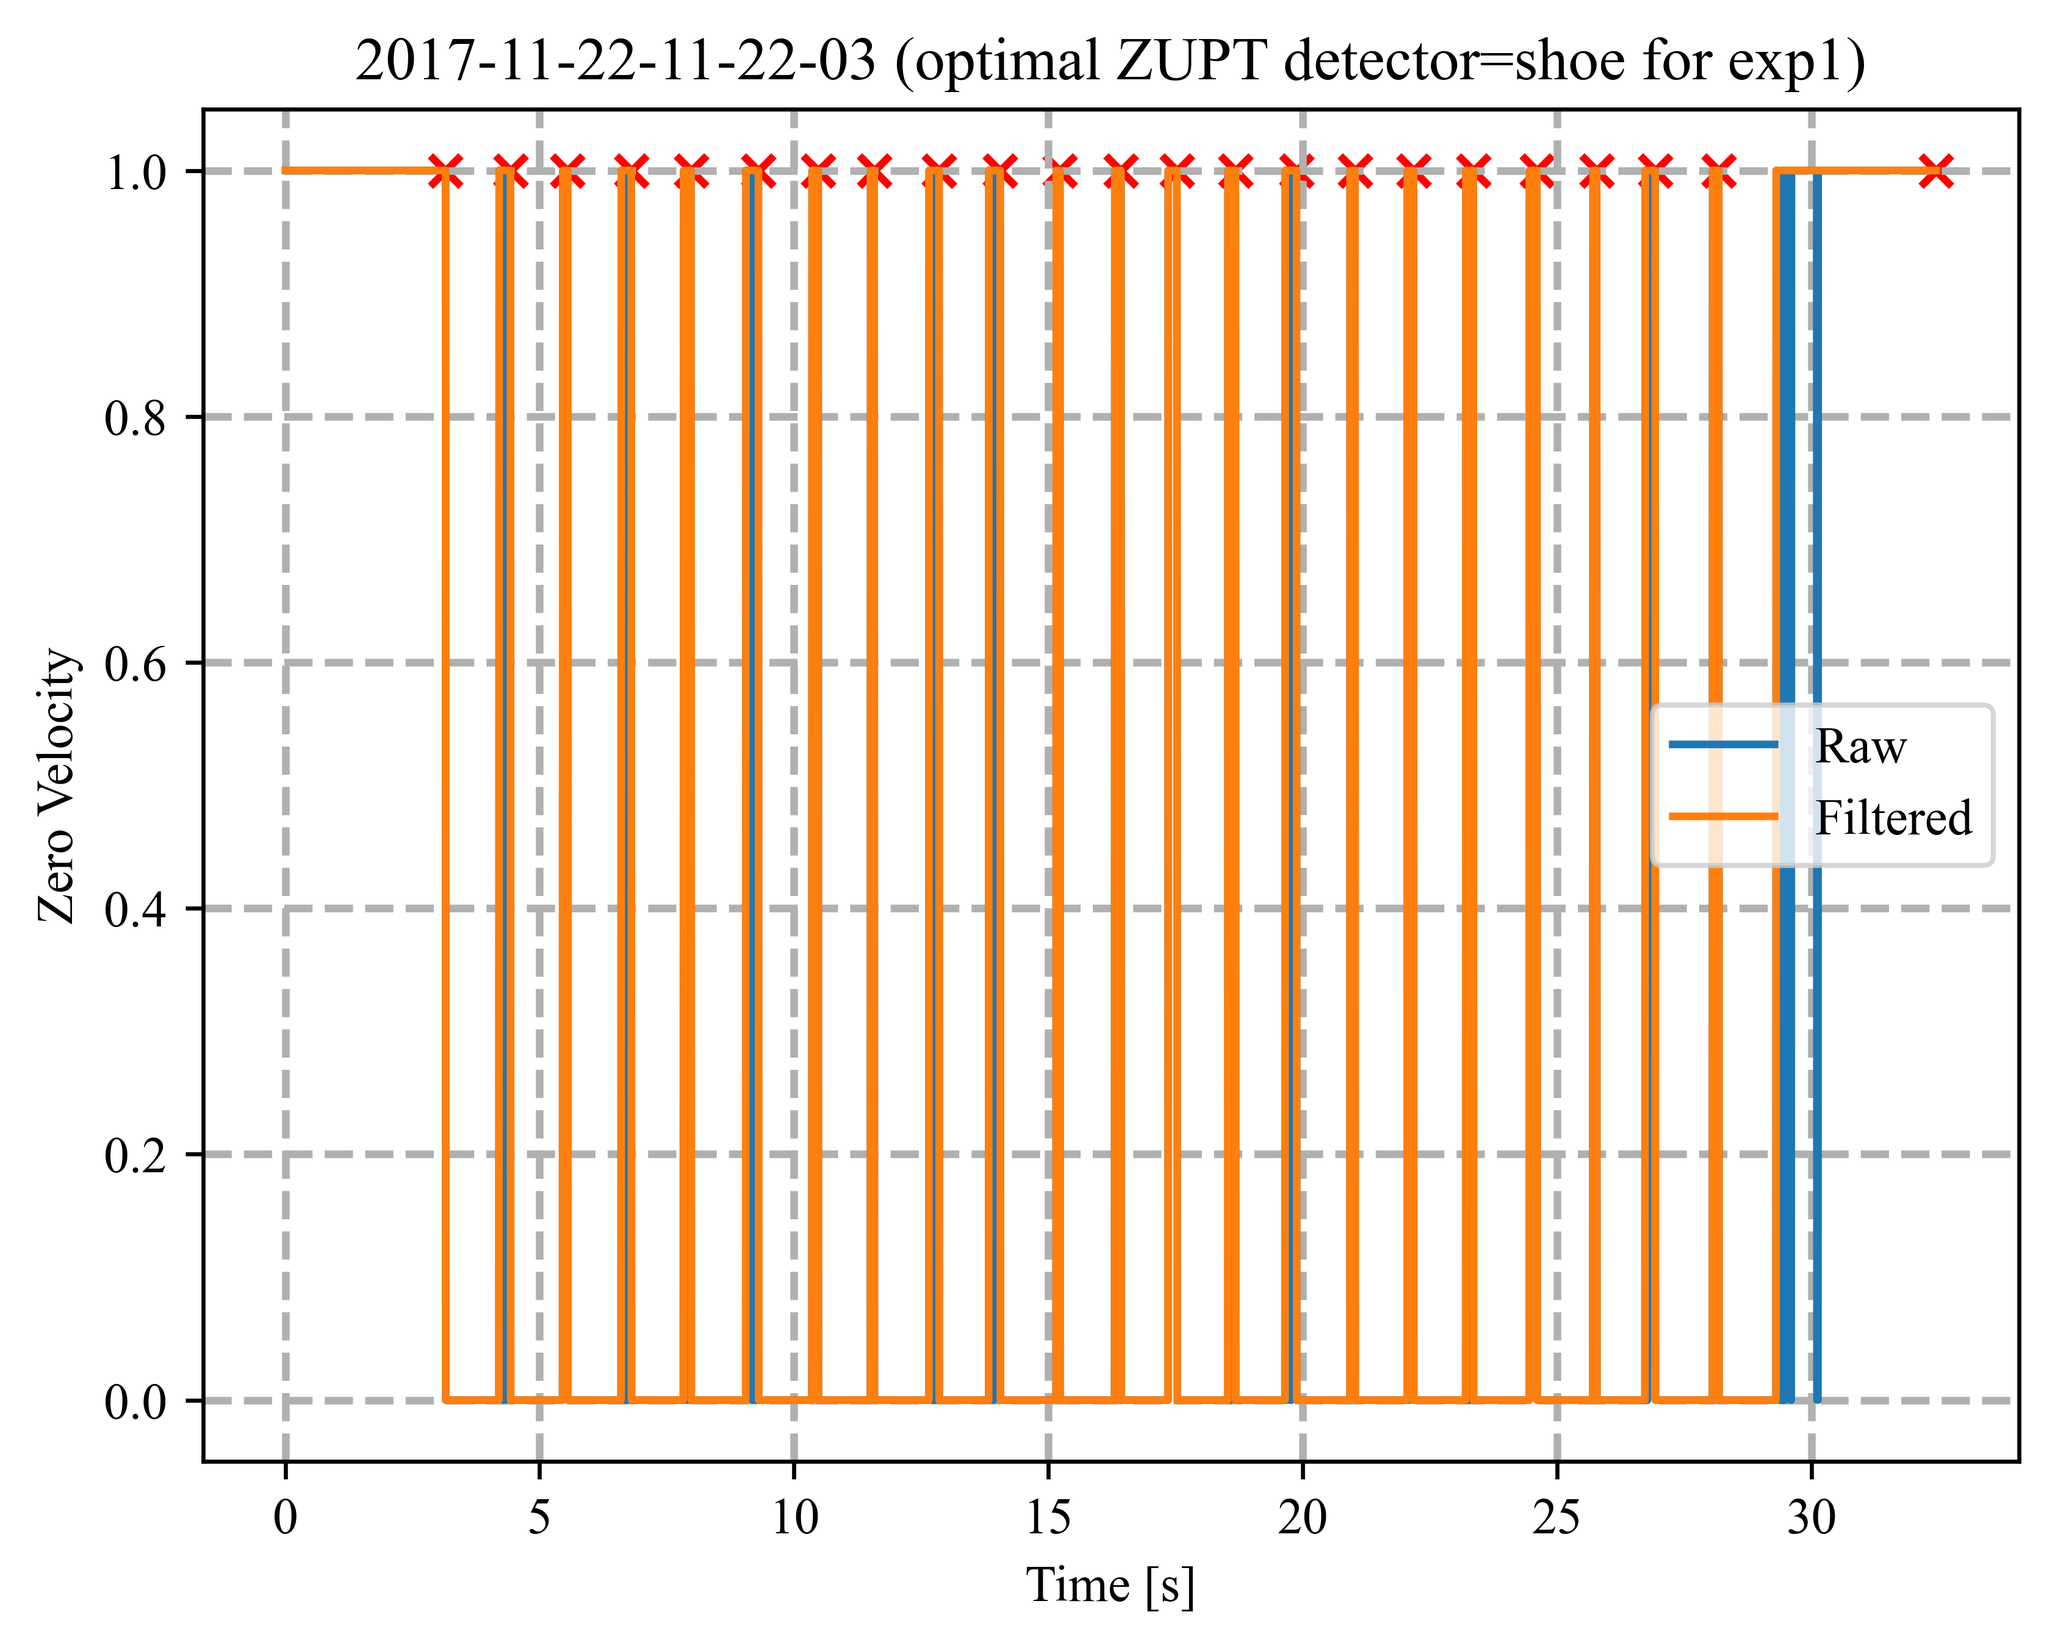
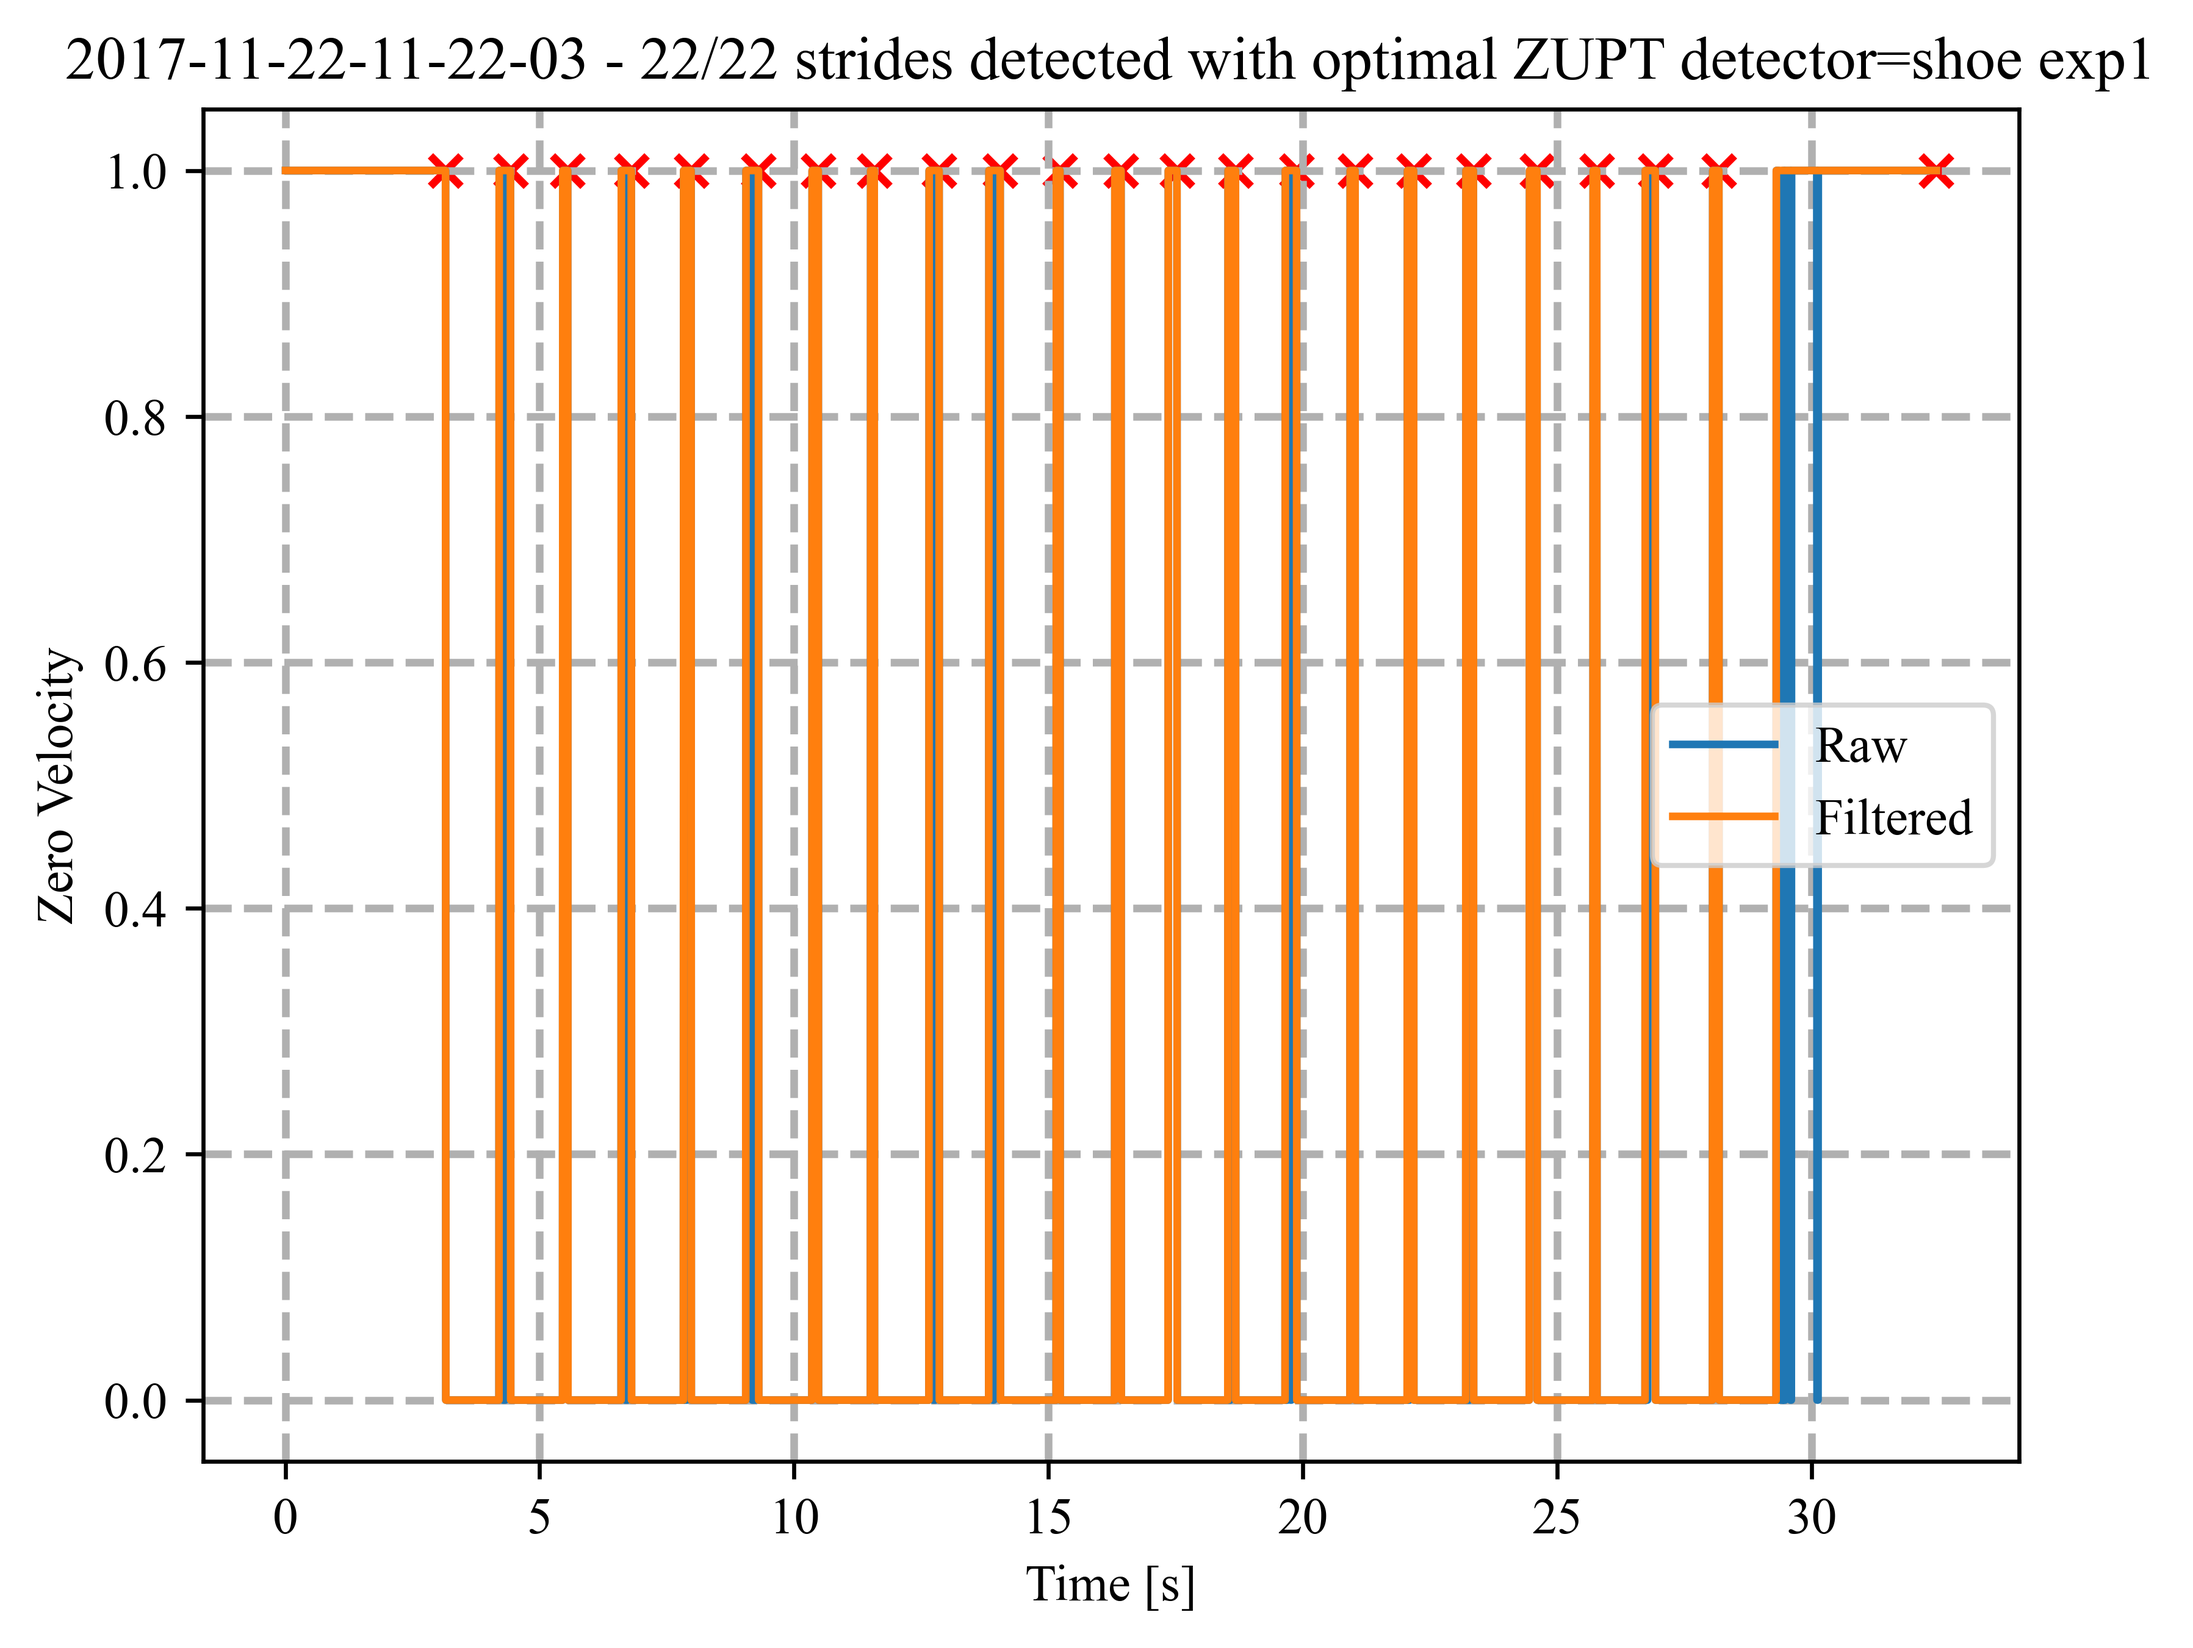
gif files added for visualization of corrections of stride detections in troublesome experiments

diff --git a/plot_vicon_bipedal_locomotion_data.py b/plot_vicon_bipedal_locomotion_data.py
@@ -68,6 +68,7 @@ def reconstruct_trajectory(displacements, heading_changes, initial_position):
 i = 0  # experiment index
 training_data_index = [1]*6
 corrected_data_index = [4, 6]
+nGT = [22, 21, 21, 18, 26, 24] # number of actual strides
 stride_experiment = [1]*5
 stride_experiment.append(1)
 stride_experiment = [abs(x) for x in stride_experiment]
@@ -91,32 +92,28 @@ for file in vicon_data_files:
         zv = ins.Localizer.compute_zv_lrt(W=5 if detector[i] != 'mbgtd' else 2, G=thresh[i], detector=detector[i])
         x = ins.baseline(zv=zv)
 
-        # Apply median filter to zero velocity detection
-        logging.info(f"Applying heuristic filter to {detector[i]} zero velocity detection")
+        # Apply filter to zero velocity detection results for stride detection corrections
+        logging.info(f'Applying heuristic filter to optimal ZUPT detector "{detector[i]}".')
         k = 75 # temporal window size for checking if detected strides are too close or not
-        print(f"zv size: {zv.shape}")
-        print(f"zv content: {zv}")
         zv_filtered, n, strideIndex = heuristic_zv_filter_and_stride_detector(zv, k)
         # zv_filtered = medfilt(zv_filtered, 15)
         # n, strideIndex = count_one_to_zero_transitions(zv_filtered)
         # strideIndex = strideIndex - 1 # make all stride indexes the last samples of the respective ZUPT phase
         # strideIndex[0] = 0 # first sample is the first stride index
         # strideIndex = np.append(strideIndex, len(timestamps)-1) # last sample is the last stride index
-        logging.info(f"Detected {n} strides in the experiment {i+1}.")
+        logging.info(f"Detected {n}/{nGT[i]} strides in the experiment {i+1}.")
 
         # Calculate displacement and heading changes between stride points based on ground truth
         displacements, heading_changes = calculate_displacement_and_heading(gt[:, :2], strideIndex)
-
         # Reconstruct the trajectory from displacements and heading changes
         initial_position = gt[strideIndex[0], :2]  # Starting point from the GT trajectory
         reconstructed_traj = reconstruct_trajectory(displacements, heading_changes, initial_position)
 
         # Remove the '.mat' extension from the filename
         base_filename = os.path.splitext(os.path.basename(file))[0]
-
         # Plotting the reconstructed trajectory and the ground truth without stride indices
         plt.figure()
-        visualize.plot_topdown([reconstructed_traj, gt[:, :2]], title=f"{base_filename} (opt detector={detector[i]} for exp#{i+1})",
+        visualize.plot_topdown([reconstructed_traj, gt[:, :2]], title=f"{base_filename} - opt detector={detector[i]} for exp#{i+1}",
                             legend=['Stride & Heading', 'GT (sample-wise)'])
         # if i+1==6:
         #     plt.scatter(-reconstructed_traj[-2:, 0], reconstructed_traj[-2:, 1], c='b', marker='x')
@@ -130,7 +127,7 @@ for file in vicon_data_files:
         plt.plot(timestamps[:len(gt)], gt[:, 2], label='GT (sample-wise)')  # Plot GT Z positions
         plt.plot(timestamps[:len(reconstructed_traj)], reconstructed_traj[:, 1],
                 label='Stride & Heading')  # Plot reconstructed Z positions (use Y axis for visualization)
-        plt.title(f'Vertical Trajectories - {base_filename} (ZUPT detector={detector[i]} for exp#{i+1})')
+        plt.title(f'Vertical Trajectories - {base_filename} - ZUPT detector={detector[i]} for exp#{i+1}')
         plt.grid(True, which='both', linestyle='--', linewidth=1.5)
         plt.xlabel('Time [s]')
         plt.ylabel('Z Position')
@@ -142,7 +139,7 @@ for file in vicon_data_files:
         plt.plot(timestamps[:len(zv)], zv, label='Raw')
         plt.plot(timestamps[:len(zv_filtered)], zv_filtered, label='Filtered')
         plt.scatter(timestamps[strideIndex], zv_filtered[strideIndex], c='r', marker='x')
-        plt.title(f'{base_filename} (optimal ZUPT detector={detector[i]} for exp{i+1})')
+        plt.title(f'{base_filename} - {n}/{nGT[i]} strides detected with optimal ZUPT detector={detector[i]} exp{i+1}')
         plt.xlabel('Time [s]')
         plt.ylabel('Zero Velocity')
         plt.grid(True, which='both', linestyle='--', linewidth=1.5)
@@ -159,9 +156,9 @@ for file in vicon_data_files:
         
         if i+1 in corrected_data_index:
             # Apply median filter to zero velocity detection
-            logging.info(f"Applying stride detection to the combined zero velocity detection results for experiment {i+1}")
+            logging.info(f"Applying stride detection to the combined zero velocity detection results for experiment {i+1}.")
             zv_filtered, n, strideIndex = heuristic_zv_filter_and_stride_detector(zv_filtered, 1)
-            logging.info(f"Detected {n} strides (in the combined ZV detector) in the experiment {i+1}.")
+            logging.info(f"Detected {n}/{nGT[i]} strides detected with the combined ZV detector in the experiment {i+1}.")
 
             # Calculate displacement and heading changes between stride points based on ground truth
             displacements, heading_changes = calculate_displacement_and_heading(gt[:, :2], strideIndex)
@@ -182,7 +179,7 @@ for file in vicon_data_files:
             plt.plot(timestamps[:len(zv)], zv, label='Raw')
             plt.plot(timestamps[:len(zv_filtered)], zv_filtered, label='Filtered')
             plt.scatter(timestamps[strideIndex], zv_filtered[strideIndex], c='r', marker='x')
-            plt.title(f'{base_filename} - combined ZUPT detector for exp{i+1}')
+            plt.title(f'{base_filename} - {n}/{nGT[i]} strides detected with combined ZUPT detector for exp{i+1}')
             plt.xlabel('Time [s]')
             plt.ylabel('Zero Velocity')
             plt.grid(True, which='both', linestyle='--', linewidth=1.5)

diff --git a/README.md b/README.md
@@ -116,6 +116,10 @@ pip install pandas==1.1.5
 
 <img src="results/figs/vicon_bipedal_locomotion/zv_labels_optimal_2017-11-22-11-25-20_corrected.png" alt="ZV labels for experiment 4 (2017-11-22-11-25-20) VICON dataset" width=%100 height=auto>
 
+<p align="justify">To see the correction by the supplementary ZUPT detector, check the gif file shown below.</p>
+
+<img src="results/figs/vicon_bipedal_locomotion/exp4.gif" alt="experiment 4 stride & heading trajectory after ZV correction" width=%100 height=auto>
+
 <h4>Experiment 6 (2017-11-22-11-26-46) - VICON training dataset</h4>
 
 <p align="justify">We see that the 9th stride is not detected in the plots below.</p>
@@ -134,6 +138,9 @@ pip install pandas==1.1.5
 
 <img src="results/figs/vicon_bipedal_locomotion/zv_labels_optimal_2017-11-22-11-26-46_corrected.png" alt="ZV labels for experiment 6 (2017-11-22-11-26-46) VICON dataset" width=%100 height=auto>
 
+<p align="justify">To see the correction by the supplementary ZUPT detector, check the gif file shown below.</p>
+
+<img src="results/figs/vicon_bipedal_locomotion/exp6.gif" alt="experiment 6 stride & heading trajectory after ZV correction" width=%100 height=auto>
 
 <p align="justify" id="ref1"><a href="#gobacktoref1">[1]</a> X. Liu, N. Li and Y. Zhang, <a href="https://ieeexplore.ieee.org/document/9956821" target="_blank">"A Novel Adaptive Zero Velocity Detection Algorithm Based on Improved General Likelihood Ratio Test Detector,"</a> in <i>IEEE Sensors Journal</i>, vol. 22, no. 24, pp. 24479-24492, 2022.</p>
 <p align="justify" id="ref2"><a href="#gobacktoref2">[2]</a> B. Wagstaff, V. Peretroukhin and J. Kelly, <a href="https://ieeexplore.ieee.org/document/8115947" target="_blank">"Improving foot-mounted inertial navigation through real-time motion classification,"</a> in <i>2017 International Conference on Indoor Positioning and Indoor Navigation (IPIN)</i>, Sapporo, Japan, 2017, pp. 1-8.</p>
